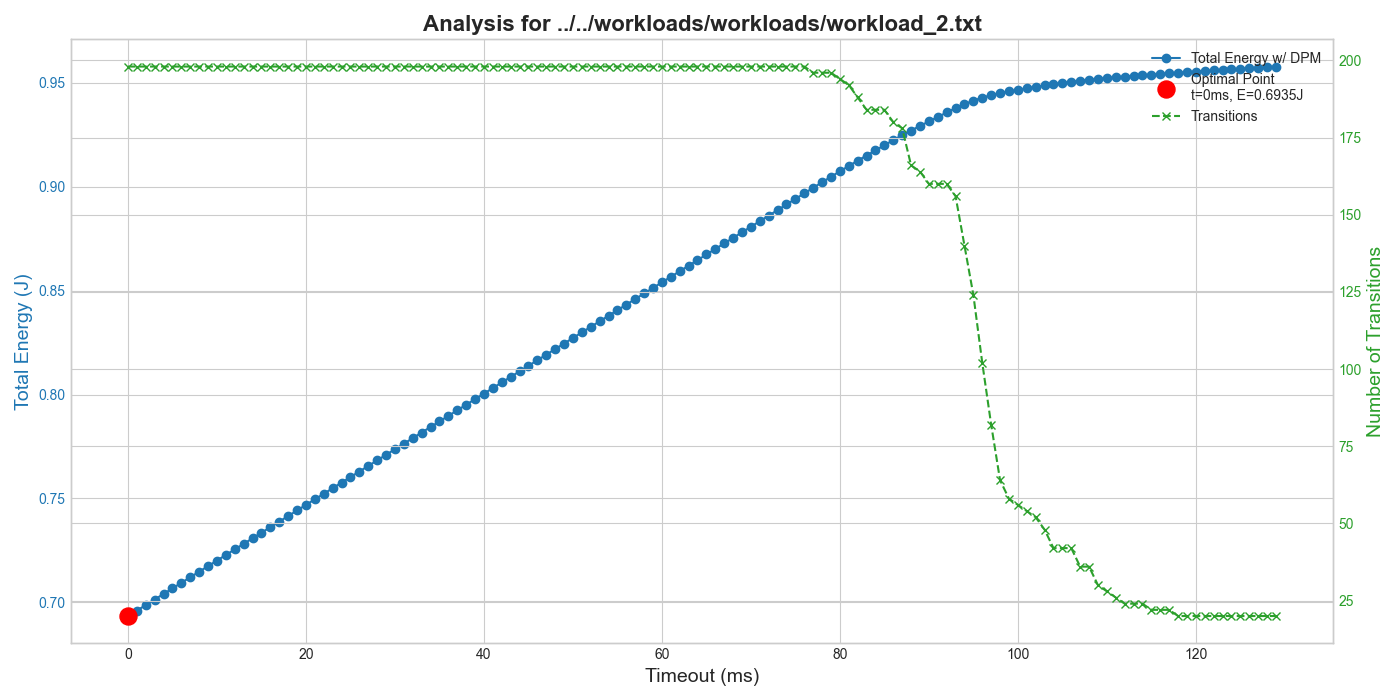
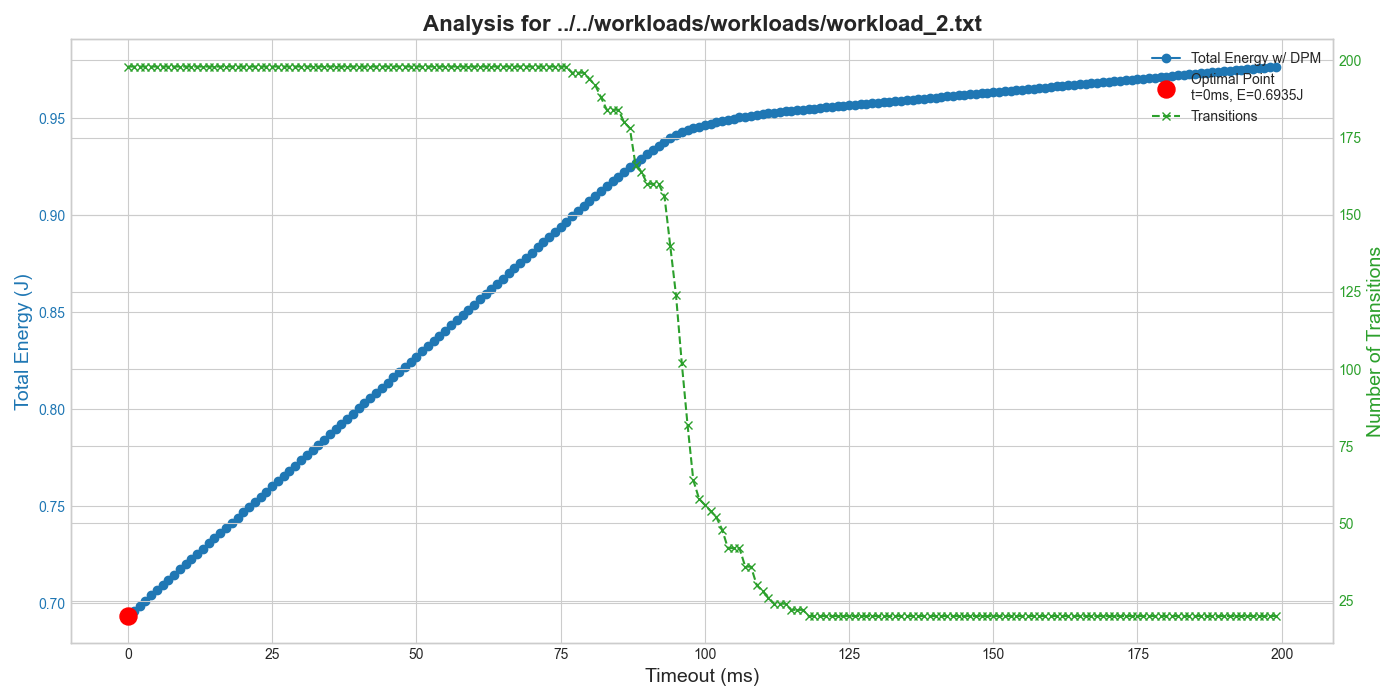
updated: new images for part1 and part2

diff --git a/lab1/dpm-simulator/dpm-simulator/run_all.py b/lab1/dpm-simulator/dpm-simulator/run_all.py
@@ -10,17 +10,17 @@ import matplotlib.pyplot as plt
 SIMULATOR_EXEC = './dpm_simulator'
 
 
-WORKLOAD_FILE = '../../workloads/workloads/workload_1.txt'
+#WORKLOAD_FILE = '../../workloads/workloads/workload_1.txt'
 # 任务2: 分析 workload2.txt (使用时请取消下面的注释，并注释掉上面一行)
 
-#WORKLOAD_FILE = '../../workloads/workloads/workload_2.txt'
+WORKLOAD_FILE = '../../workloads/workloads/workload_2.txt'
 # PSM 文件的路径 (通常保持不变，与您的命令一致)
 
 PSM_FILE = 'example/psm.txt'
 
 # 你想要测试的超时值范围
 # 例如 range(1, 101, 2) 表示从1到100，每隔2测试一次 (1, 3, 5...)
-TIMEOUT_RANGE = range(0, 8, 1)
+TIMEOUT_RANGE = range(0, 200, 1)
 
 # ==============================================================================
 # 2. 脚本核心功能区 - 无需修改
